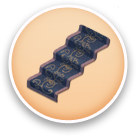
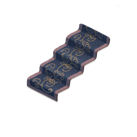
Небольшой рефакторинг кода + README

diff --git a/src/scripts/modules/interactive.js b/src/scripts/modules/interactive.js
@@ -1,9 +1,11 @@
 import * as PIXI from 'pixi.js';
 import { app } from '../../main.js';
-import { RES_PATH, STAIRS_POSITION_Y } from '../constants/index.js';
+import { animationSwing, fadeOut } from '../services/animations.js';
 import { allStairs, oldStairs } from './stairs.js';
 import { getContainer } from './final-stage.js';
-import { animationSwing, fadeOut } from '../services/animations.js';
+import { createStairsButton, resetActive, setActive } from '../services/stairs-button.js';
+
+import { RES_PATH, STAIRS_POSITION_Y } from '../constants/index.js';
 
 const STAIRS_FALL_OFFSET = 30;
 
@@ -12,41 +14,16 @@ const BUTTON_OFFSET = 130;
 
 let buttonX = 830;
 let isStairsButtonInit = false;
+let timeoutDelay = 0;
 
 export const interactiveInit = () => {
     const container = new PIXI.Container();
     app.stage.addChild(container);
 
-    /****** */
-
-    // const nonActiveButton = new PIXI.Sprite(PIXI.Texture.from(`${RES_PATH}interactive/non-active-button.png`));
-    // const activeButton = new PIXI.Sprite(PIXI.Texture.from(`${RES_PATH}interactive/active-button.png`));
-
-    // const button1 = new PIXI.Container();
-    // button1.addChild(nonActiveButton);
-    // button1.addChild(activeButton);
-
-    // button1.interactive = true;
-    // button1.buttonMode = true;
-
-    // nonActiveButton.position.set(400, BUTTON_POSITION_Y);
-    // activeButton.position.set(400, BUTTON_POSITION_Y);
-
-    // activeButton.visible = false;
-
-    // button1.on('pointerdown', () => {
-    //     nonActiveButton.visible = !nonActiveButton.visible;
-    //     activeButton.visible = !activeButton.visible;
-    // });
-
-    // app.stage.addChild(button1);
-
-    /****** */
-
     const stairsButtons = [
-        new PIXI.Sprite(PIXI.Texture.from(`${RES_PATH}interactive/stairs-1.png`)),
-        new PIXI.Sprite(PIXI.Texture.from(`${RES_PATH}interactive/stairs-2.png`)),
-        new PIXI.Sprite(PIXI.Texture.from(`${RES_PATH}interactive/stairs-3.png`)),
+        createStairsButton('stairs-1.png'),
+        createStairsButton('stairs-2.png'),
+        createStairsButton('stairs-3.png'),
     ];
 
     const okButton = new PIXI.Sprite(PIXI.Texture.from(`${RES_PATH}interactive/ok-button.png`));
@@ -71,8 +48,6 @@ export const interactiveInit = () => {
      * @param {object} stairsButton
      */
     const setOkButtonPosition = (stairsButton) => {
-        console.log(typeof stairsButton);
-
         const { x, y, width, height } = stairsButton;
 
         okButton.alpha = 0;
@@ -83,18 +58,22 @@ export const interactiveInit = () => {
 
     /**
      *
-     * @param {*} button
+     * @param {*} stairsButton
      * @param {*} index
      */
-    const clickStairsButtonHandler = (button, index) => {
+    const clickStairsButtonHandler = (stairsButton, index) => {
         if (selectedIndex === index) return;
         selectedIndex = index;
+
+        stairsButtons.forEach(resetActive);
+        setActive(stairsButton);
 
         allStairs.forEach((stairs) => stairs.visible = false);
         oldStairs.visible = false;
 
+        initOkButton();
         setStairsDefault(index);
-        setOkButtonPosition(button);
+        setOkButtonPosition(stairsButton);
     };
 
     const clickOkButtonHandler = () => {
@@ -113,7 +92,6 @@ export const interactiveInit = () => {
             if (isStairsButtonInit) return;
 
             stairsButtons.forEach(initStairsButton);
-            initOkButton();
 
             isStairsButtonInit = true;
         });
@@ -130,14 +108,16 @@ export const interactiveInit = () => {
      * @param {*} index
      */
     const initStairsButton = (button, index) => {
-        button.interactive = true;
-        button.buttonMode = true;
         button.position.set(buttonX, BUTTON_POSITION_Y);
 
+        timeoutDelay += 100;
         buttonX += BUTTON_OFFSET;
-        container.addChild(button);
-
         button.on('pointerdown', () => clickStairsButtonHandler(button, index));
+
+        setTimeout(() => {
+            button.alpha = 0;
+            container.addChild(button);
+        }, timeoutDelay);
     };
 
     /**

diff --git a/src/scripts/services/stairs-button.js b/src/scripts/services/stairs-button.js
@@ -1,0 +1,48 @@
+import * as PIXI from 'pixi.js';
+import { RES_PATH } from '../constants/index.js';
+import { fadeOut } from './animations.js';
+
+const BUTTON_POSITION_Y = 15;
+
+class MyIDSprite extends PIXI.Sprite {
+    constructor(texture, identifier) {
+        super(texture);
+        this._identifier = identifier;
+    }
+}
+
+export const createStairsButton = (image) => {
+    const button = new PIXI.Container();
+    const nonActiveButton = new MyIDSprite(PIXI.Texture.from(`${RES_PATH}interactive/non-active-button.png`), 'normal');
+    const activeButton = new MyIDSprite(PIXI.Texture.from(`${RES_PATH}interactive/active-button.png`), 'active');
+    const stairsTexture = new MyIDSprite(PIXI.Texture.from(`${RES_PATH}interactive/${image}`), 'stairs');
+
+    button.addChild(nonActiveButton);
+    button.addChild(activeButton);
+    button.addChild(stairsTexture);
+
+    button.interactive = true;
+    button.buttonMode = true;
+
+    activeButton.visible = false;
+
+    fadeOut(button);
+
+    return button;
+}
+
+export const resetActive = (container) => {
+    const nonActiveButton = container.children.find((item) => item['_identifier'] === 'normal');
+    const activeButton = container.children.find((item) => item['_identifier'] === 'active');
+
+    nonActiveButton.visible = true;
+    activeButton.visible = false;
+}
+
+export const setActive = (container) => {
+    const nonActiveButton = container.children.find((item) => item['_identifier'] === 'normal');
+    const activeButton = container.children.find((item) => item['_identifier'] === 'active');
+
+    nonActiveButton.visible = false;
+    activeButton.visible = true;
+};

diff --git a/src/scripts/modules/final-stage.js b/src/scripts/modules/final-stage.js
@@ -1,10 +1,15 @@
 import * as PIXI from 'pixi.js';
 import { Graphics } from 'pixi.js';
-
 import { app } from '../../main.js';
-import { RES_PATH, APP_WIDTH, APP_HEIGHT } from '../constants/index.js';
-
 import { animationSwing, fadeOut } from '../services/animations.js';
+import {
+    RES_PATH,
+    APP_WIDTH,
+    APP_HEIGHT,
+    REDIRECT_URL,
+    BANNER_POSITION_Y,
+    CONTINUE_BUTTON_POSITION_Y,
+} from '../constants/index.js';
 
 let container;
 
@@ -26,7 +31,7 @@ export const finalStageInit = () => {
     const createBanner = () => {
         const banner = new PIXI.Sprite(PIXI.Texture.from(`${RES_PATH}interactive/banner.png`));
         banner.x = APP_WIDTH / 2;
-        banner.y = 50;
+        banner.y = BANNER_POSITION_Y;
         banner.anchor.set(0.5, 0);
 
         container.addChild(banner);
@@ -35,14 +40,15 @@ export const finalStageInit = () => {
     const createContinueButton = () => {
         const continueButton = new PIXI.Sprite(PIXI.Texture.from(`${RES_PATH}interactive/continue-button.png`));
         continueButton.x = APP_WIDTH / 2;
-        continueButton.y = 480;
+        continueButton.y = CONTINUE_BUTTON_POSITION_Y;
         continueButton.anchor.set(0.5, 0);
 
         continueButton.interactive = true;
         continueButton.buttonMode = true;
 
         continueButton.on('pointerdown', () => {
-            console.log('open game link');
+            const win = window.open(REDIRECT_URL, '_blank');
+            win.focus();
         });
 
         // Анимация "качения кнопки"

diff --git a/src/scripts/modules/decorations.js b/src/scripts/modules/decorations.js
@@ -1,7 +1,7 @@
 import * as PIXI from 'pixi.js';
 import { app } from '../../main.js';
-import { RES_PATH } from '../constants/index.js';
 import { fadeOut, fallingDown } from '../services/animations.js';
+import { RES_PATH } from '../constants/index.js';
 
 const DECORS = {
     bookStand:  { x: 830,   y: -20, name: 'book-stand.png', },
@@ -12,11 +12,11 @@ const DECORS = {
     table:      { x: 200,   y: 200, name: 'table.png', },
 };
 
+let TIMEOUT = 300;
+
 export const decorationsInit = () => {
     const decorContainer = new PIXI.Container();
     app.stage.addChild(decorContainer);
-
-    let TIMEOUT = 300;
 
     // Сортируем по Y, чтобы не перекрывались предметы по экспозиции
     Object.values(DECORS).sort((a, b) => a.y - b.y).forEach((item) => {

diff --git a/src/scripts/modules/foreground-decor.js b/src/scripts/modules/foreground-decor.js
@@ -1,7 +1,9 @@
 import * as PIXI from 'pixi.js';
 import { app } from '../../main.js';
-import { RES_PATH, FOREGROUND_PLANT_X, FOREGROUND_PLANT_Y } from '../constants/index.js';
 import { fadeOut, fallingDown } from '../services/animations.js';
+import { RES_PATH, FOREGROUND_PLANT_X, FOREGROUND_PLANT_Y } from '../constants/index.js';
+
+const TIMEOUT = 500;
 
 export const foregroundDecorInit = () => {
     const container = new PIXI.Container();
@@ -14,7 +16,7 @@ export const foregroundDecorInit = () => {
     setTimeout(() => {
         fadeOut(plantForeground);
         fallingDown(plantForeground, FOREGROUND_PLANT_Y);
-    }, 500);
+    }, TIMEOUT);
 
     container.addChild(plantForeground);
 }

diff --git a/src/scripts/constants/index.js b/src/scripts/constants/index.js
@@ -1,11 +1,22 @@
 export const APP_WIDTH = 1390;
 export const APP_HEIGHT = 640;
 
+export const AUSTIN_POSITION_X = 700;
+export const AUSTIN_POSITION_Y = 115;
+
+export const LOGO_POSITION_X = 40;
+export const LOGO_POSITION_Y = 10;
+
 export const STAIRS_POSITION_X = 900;
 export const STAIRS_POSITION_Y = 25;
 
 export const FOREGROUND_PLANT_X = 1130;
 export const FOREGROUND_PLANT_Y = 445;
+
+export const BANNER_POSITION_Y = 50;
+export const CONTINUE_BUTTON_POSITION_Y = 480;
+
+export const REDIRECT_URL = 'https://www.playrix.ru/';
 
 export const APP_SETIINGS = {
     width: APP_WIDTH,

diff --git a/src/scripts/modules/austin.js b/src/scripts/modules/austin.js
@@ -1,13 +1,10 @@
 import * as PIXI from 'pixi.js';
 import { app } from '../../main.js';
-import { RES_PATH } from '../constants/index.js';
-
-const POSITION_X = 700;
-const POSITION_Y = 115;
+import { RES_PATH, AUSTIN_POSITION_X, AUSTIN_POSITION_Y } from '../constants/index.js';
 
 export const austinInit = () => {
     const austin = new PIXI.Sprite(PIXI.Texture.from(`${RES_PATH}austin.png`));
-    austin.position.set(POSITION_X, POSITION_Y);
+    austin.position.set(AUSTIN_POSITION_X, AUSTIN_POSITION_Y);
 
     app.stage.addChild(austin);
 };

diff --git a/src/scripts/modules/logo.js b/src/scripts/modules/logo.js
@@ -1,13 +1,10 @@
 import * as PIXI from 'pixi.js';
 import { app } from '../../main.js';
-import { RES_PATH } from '../constants/index.js';
-
-const POSITION_X = 40;
-const POSITION_Y = 10;
+import { RES_PATH, LOGO_POSITION_X, LOGO_POSITION_Y } from '../constants/index.js';
 
 export const logoInit = () => {
     const logo = new PIXI.Sprite(PIXI.Texture.from(`${RES_PATH}logo.png`));
-    logo.position.set(POSITION_X, POSITION_Y);
+    logo.position.set(LOGO_POSITION_X, LOGO_POSITION_Y);
 
     app.stage.addChild(logo);
 };

diff --git a/README.md b/README.md
@@ -1,0 +1,21 @@
+## Playable Ad
+
+_Тестовое задание для Playrix_
+
+Для установки зависимостей:
+
+```
+npm i
+```
+
+Для запуска дев.сборки
+
+```
+npm start
+```
+
+Для сборки файлов в продакшн
+
+```
+npm run build
+```
